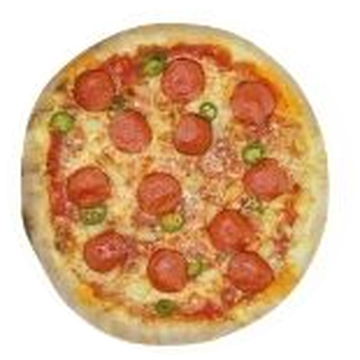
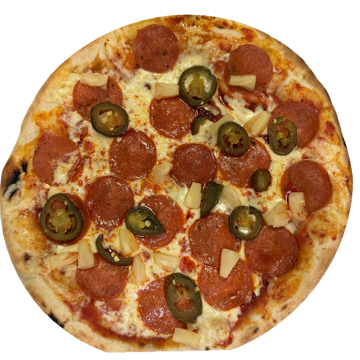
Uusi Mexicanan kuva (keskiviikon päivän pizza), tausta poistettu
Claude-Session: https://claude.ai/code/session_019QJ8uAZrjsHY5GBSvSU4sp

diff --git a/index.html b/index.html
@@ -1,9 +1,9 @@
 <!DOCTYPE html>
-<html lang="fi"><head><meta charset="utf-8"><meta name="build" content="1793696122"><meta name="viewport" content="width=device-width, initial-scale=1, viewport-fit=cover">
+<html lang="fi"><head><meta charset="utf-8"><meta name="build" content="1793781679"><meta name="viewport" content="width=device-width, initial-scale=1, viewport-fit=cover">
 <title>Malakai Ravintola Lempäälä | Pizzabuffet, kebab, burgerit ja siivet</title><meta name="description" content="Malakai Ravintola, Tampereentie 414 Lempäälä. Pizzabuffet 13,70 € / 14,90 €, päivän pizza 9,90 €, kebabit, burgerit, Sticky Fingers ja Hot Wings. Varaa pöytä: 045 353 7000.">
 <meta property="og:title" content="Malakai Ravintola Lempäälä | Pizzabuffet, kebab, burgerit ja siivet"><meta property="og:description" content="Malakai Ravintola, Tampereentie 414 Lempäälä. Pizzabuffet 13,70 € / 14,90 €, päivän pizza 9,90 €, kebabit, burgerit, Sticky Fingers ja Hot Wings. Varaa pöytä: 045 353 7000."><meta property="og:image" content="media/kuvat/hero-levea.jpg"><meta property="og:locale" content="fi_FI">
 <link href="https://fonts.googleapis.com/css2?family=Anton&family=Inter:wght@400;500;700&family=Playfair+Display:wght@500;600&display=swap" rel="stylesheet">
-<link rel="stylesheet" href="styles.css?v=1793696122"><link rel="stylesheet" href="home.css?v=1793696122">
+<link rel="stylesheet" href="styles.css?v=1793781679"><link rel="stylesheet" href="home.css?v=1793781679">
 <script type="application/ld+json">{"@context":"https://schema.org","@type":"Restaurant","name":"Malakai Ravintola","address":{"@type":"PostalAddress","streetAddress":"Tampereentie 414","postalCode":"33880","addressLocality":"Lempäälä","addressCountry":"FI"},"telephone":"+358453537000","email":"malakairavintola@gmail.com","url":"https://malakairavintola.fi","servesCuisine":["Pizza","Kebab","Burgerit"],"openingHours":["Mo-Th 10:30-20:00","Fr 10:30-21:00","Sa 11:00-21:00","Su 12:00-20:00"]}</script>
 </head>
 <body class="home">
@@ -219,5 +219,5 @@
 <div class="fcopy">© 2025 Malakai Ravintola · <a href="https://www.oivahymy.fi/api/raportti/227129" target="_blank" rel="noopener">Oiva-raportti (Oivallinen)</a> · <a href="tietosuoja.html">Tietosuojaseloste</a> · <a href="kayttoehdot.html">Käyttö- ja varausehdot</a></div>
 </div></footer>
 <div class="bar"><a class="btn" href="tel:+358453537000">Soita</a><a class="btn r" href="https://order.site/malakai-ravintola" target="_blank" rel="noopener">Tilaa</a><a class="btn y" href="#varaa">Varaa pöytä</a></div>
-<script src="data.js?v=1793696122"></script><script src="config.js?v=1793696122"></script><script src="site.js?v=1793696122"></script>
+<script src="data.js?v=1793781679"></script><script src="config.js?v=1793781679"></script><script src="site.js?v=1793781679"></script>
 </body></html>

diff --git a/lounas.html b/lounas.html
@@ -1,9 +1,9 @@
 <!DOCTYPE html>
-<html lang="fi"><head><meta charset="utf-8"><meta name="build" content="1793696122"><meta name="viewport" content="width=device-width, initial-scale=1, viewport-fit=cover">
+<html lang="fi"><head><meta charset="utf-8"><meta name="build" content="1793781679"><meta name="viewport" content="width=device-width, initial-scale=1, viewport-fit=cover">
 <title>Lounas Sääksjärvi | Malakai Ravintola Lempäälä</title><meta name="description" content="Pizzabuffet Lempäälässä: arkisin klo 10.30–15 13,70 €, viikonloppuisin klo 13–18 14,90 €. Salaattibuffet 9,90 € / 10,90 €. Lapsille omat hinnat.">
 <meta property="og:title" content="Pizzabuffet Lempäälä | Malakai Ravintola"><meta property="og:description" content="Pizzabuffet Lempäälässä: arkisin klo 10.30–15 13,70 €, viikonloppuisin klo 13–18 14,90 €. Salaattibuffet 9,90 € / 10,90 €. Lapsille omat hinnat."><meta property="og:image" content="media/hero.jpg"><meta property="og:locale" content="fi_FI">
 <link href="https://fonts.googleapis.com/css2?family=Anton&family=Inter:wght@400;500;700&family=Playfair+Display:wght@500;600&display=swap" rel="stylesheet">
-<link rel="stylesheet" href="styles.css?v=1793696122"><link rel="stylesheet" href="home.css?v=1793696122">
+<link rel="stylesheet" href="styles.css?v=1793781679"><link rel="stylesheet" href="home.css?v=1793781679">
 <script type="application/ld+json">{"@context":"https://schema.org","@type":"Restaurant","name":"Malakai Ravintola","address":{"@type":"PostalAddress","streetAddress":"Tampereentie 414","postalCode":"33880","addressLocality":"Lempäälä","addressCountry":"FI"},"telephone":"+358453537000","email":"malakairavintola@gmail.com","url":"https://malakairavintola.fi","servesCuisine":["Pizza","Kebab","Burgerit"],"openingHours":["Mo-Th 10:30-20:00","Fr 10:30-21:00","Sa 11:00-21:00","Su 12:00-20:00"]}</script>
 </head><body class="home">
 <header class="top" id="topbar">
@@ -73,5 +73,5 @@
 <div class="fcopy">© 2025 Malakai Ravintola · <a href="https://www.oivahymy.fi/api/raportti/227129" target="_blank" rel="noopener">Oiva-raportti (Oivallinen)</a> · <a href="tietosuoja.html">Tietosuojaseloste</a> · <a href="kayttoehdot.html">Käyttö- ja varausehdot</a></div>
 </div></footer>
 <div class="bar"><a class="btn" href="tel:+358453537000">Soita</a><a class="btn r" href="https://order.site/malakai-ravintola" target="_blank" rel="noopener">Tilaa</a><a class="btn y" href="index.html#varaa">Varaa pöytä</a></div>
-<script src="data.js?v=1793696122"></script><script src="config.js?v=1793696122"></script><script src="site.js?v=1793696122"></script>
+<script src="data.js?v=1793781679"></script><script src="config.js?v=1793781679"></script><script src="site.js?v=1793781679"></script>
 </body></html>

diff --git a/pikkujoulut.html b/pikkujoulut.html
@@ -1,9 +1,9 @@
 <!DOCTYPE html>
-<html lang="fi"><head><meta charset="utf-8"><meta name="build" content="1793696122"><meta name="viewport" content="width=device-width, initial-scale=1, viewport-fit=cover">
+<html lang="fi"><head><meta charset="utf-8"><meta name="build" content="1793781679"><meta name="viewport" content="width=device-width, initial-scale=1, viewport-fit=cover">
 <title>Pikkujoulut 2026 Lempäälä | Malakai Ravintola</title><meta name="description" content="Pikkujoulut 2026 Malakai Ravintolassa Sääksjärvellä: runsas buffet työporukalle, kavereille ja suvulle. Pyydä tarjous: 045 353 7000.">
 <meta property="og:title" content="Pikkujoulut 2026 | Malakai Ravintola"><meta property="og:description" content="Pikkujoulut 2026 Malakai Ravintolassa Sääksjärvellä: runsas buffet työporukalle, kavereille ja suvulle. Pyydä tarjous: 045 353 7000."><meta property="og:image" content="media/kuvat/buffet-lautanen.jpg"><meta property="og:locale" content="fi_FI">
 <link href="https://fonts.googleapis.com/css2?family=Anton&family=Inter:wght@400;500;700&family=Playfair+Display:wght@500;600&display=swap" rel="stylesheet">
-<link rel="stylesheet" href="styles.css?v=1793696122"><link rel="stylesheet" href="home.css?v=1793696122">
+<link rel="stylesheet" href="styles.css?v=1793781679"><link rel="stylesheet" href="home.css?v=1793781679">
 <script type="application/ld+json">{"@context":"https://schema.org","@type":"Restaurant","name":"Malakai Ravintola","address":{"@type":"PostalAddress","streetAddress":"Tampereentie 414","postalCode":"33880","addressLocality":"Lempäälä","addressCountry":"FI"},"telephone":"+358453537000","email":"malakairavintola@gmail.com","url":"https://malakairavintola.fi","servesCuisine":["Pizza","Kebab","Burgerit"],"openingHours":["Mo-Th 10:30-20:00","Fr 10:30-21:00","Sa 11:00-21:00","Su 12:00-20:00"]}</script>
 </head><body class="home">
 <header class="top" id="topbar">
@@ -66,5 +66,5 @@
 <div class="fcopy">© 2025 Malakai Ravintola · <a href="https://www.oivahymy.fi/api/raportti/227129" target="_blank" rel="noopener">Oiva-raportti (Oivallinen)</a> · <a href="tietosuoja.html">Tietosuojaseloste</a> · <a href="kayttoehdot.html">Käyttö- ja varausehdot</a></div>
 </div></footer>
 <div class="bar"><a class="btn" href="tel:+358453537000">Soita</a><a class="btn r" href="https://order.site/malakai-ravintola" target="_blank" rel="noopener">Tilaa</a><a class="btn y" href="index.html#varaa">Varaa pöytä</a></div>
-<script src="data.js?v=1793696122"></script><script src="config.js?v=1793696122"></script><script src="site.js?v=1793696122"></script>
+<script src="data.js?v=1793781679"></script><script src="config.js?v=1793781679"></script><script src="site.js?v=1793781679"></script>
 </body></html>

diff --git a/ruokalista.html b/ruokalista.html
@@ -1,9 +1,9 @@
 <!DOCTYPE html>
-<html lang="fi"><head><meta charset="utf-8"><meta name="build" content="1793696122"><meta name="viewport" content="width=device-width, initial-scale=1, viewport-fit=cover">
+<html lang="fi"><head><meta charset="utf-8"><meta name="build" content="1793781679"><meta name="viewport" content="width=device-width, initial-scale=1, viewport-fit=cover">
 <title>Ruokalista | Malakai Ravintola Lempäälä</title><meta name="description" content="Malakai Ravintolan ruokalista: pizzat, kebabit, kana, Sticky Fingers, Hot Wings, burgerit, lisukkeet, dipit ja juomat hintoineen.">
 <meta property="og:title" content="Ruokalista | Malakai Ravintola Lempäälä"><meta property="og:description" content="Malakai Ravintolan ruokalista: pizzat, kebabit, kana, Sticky Fingers, Hot Wings, burgerit, lisukkeet, dipit ja juomat hintoineen."><meta property="og:image" content="media/hero.jpg"><meta property="og:locale" content="fi_FI">
 <link href="https://fonts.googleapis.com/css2?family=Anton&family=Inter:wght@400;500;700&family=Playfair+Display:wght@500;600&display=swap" rel="stylesheet">
-<link rel="stylesheet" href="styles.css?v=1793696122"><link rel="stylesheet" href="home.css?v=1793696122">
+<link rel="stylesheet" href="styles.css?v=1793781679"><link rel="stylesheet" href="home.css?v=1793781679">
 <script type="application/ld+json">{"@context":"https://schema.org","@type":"Restaurant","name":"Malakai Ravintola","address":{"@type":"PostalAddress","streetAddress":"Tampereentie 414","postalCode":"33880","addressLocality":"Lempäälä","addressCountry":"FI"},"telephone":"+358453537000","email":"malakairavintola@gmail.com","url":"https://malakairavintola.fi","servesCuisine":["Pizza","Kebab","Burgerit"],"openingHours":["Mo-Th 10:30-20:00","Fr 10:30-21:00","Sa 11:00-21:00","Su 12:00-20:00"]}</script>
 </head><body class="home menu-page">
 <header class="top" id="topbar">
@@ -23,5 +23,5 @@
 <div class="fcopy">© 2025 Malakai Ravintola · <a href="https://www.oivahymy.fi/api/raportti/227129" target="_blank" rel="noopener">Oiva-raportti (Oivallinen)</a> · <a href="tietosuoja.html">Tietosuojaseloste</a> · <a href="kayttoehdot.html">Käyttö- ja varausehdot</a></div>
 </div></footer>
 <div class="bar"><a class="btn" href="tel:+358453537000">Soita</a><a class="btn r" href="https://order.site/malakai-ravintola" target="_blank" rel="noopener">Tilaa</a><a class="btn y" href="index.html#varaa">Varaa pöytä</a></div>
-<script src="data.js?v=1793696122"></script><script src="config.js?v=1793696122"></script><script src="site.js?v=1793696122"></script>
+<script src="data.js?v=1793781679"></script><script src="config.js?v=1793781679"></script><script src="site.js?v=1793781679"></script>
 </body></html>

diff --git a/pizza-lempaala.html b/pizza-lempaala.html
@@ -1,9 +1,9 @@
 <!DOCTYPE html>
-<html lang="fi"><head><meta charset="utf-8"><meta name="build" content="1793696122"><meta name="viewport" content="width=device-width, initial-scale=1, viewport-fit=cover">
+<html lang="fi"><head><meta charset="utf-8"><meta name="build" content="1793781679"><meta name="viewport" content="width=device-width, initial-scale=1, viewport-fit=cover">
 <title>Pizza Lempäälä | Malakai Ravintola</title><meta name="description" content="Pizza Lempäälässä: Malakai Ravintolan 22 pizzaa, oma valinta ja päivän pizza 9,90 €. Pizzabuffet joka päivä.">
 <meta property="og:title" content="Pizza Lempäälä | Malakai Ravintola"><meta property="og:description" content="Pizza Lempäälässä: Malakai Ravintolan 22 pizzaa, oma valinta ja päivän pizza 9,90 €. Pizzabuffet joka päivä."><meta property="og:image" content="media/hero.jpg"><meta property="og:locale" content="fi_FI">
 <link href="https://fonts.googleapis.com/css2?family=Anton&family=Inter:wght@400;500;700&family=Playfair+Display:wght@500;600&display=swap" rel="stylesheet">
-<link rel="stylesheet" href="styles.css?v=1793696122"><link rel="stylesheet" href="home.css?v=1793696122">
+<link rel="stylesheet" href="styles.css?v=1793781679"><link rel="stylesheet" href="home.css?v=1793781679">
 <script type="application/ld+json">{"@context":"https://schema.org","@type":"Restaurant","name":"Malakai Ravintola","address":{"@type":"PostalAddress","streetAddress":"Tampereentie 414","postalCode":"33880","addressLocality":"Lempäälä","addressCountry":"FI"},"telephone":"+358453537000","email":"malakairavintola@gmail.com","url":"https://malakairavintola.fi","servesCuisine":["Pizza","Kebab","Burgerit"],"openingHours":["Mo-Th 10:30-20:00","Fr 10:30-21:00","Sa 11:00-21:00","Su 12:00-20:00"]}</script>
 </head><body class="home menu-page">
 <header class="top" id="topbar">
@@ -23,5 +23,5 @@
 <div class="fcopy">© 2025 Malakai Ravintola · <a href="https://www.oivahymy.fi/api/raportti/227129" target="_blank" rel="noopener">Oiva-raportti (Oivallinen)</a> · <a href="tietosuoja.html">Tietosuojaseloste</a> · <a href="kayttoehdot.html">Käyttö- ja varausehdot</a></div>
 </div></footer>
 <div class="bar"><a class="btn" href="tel:+358453537000">Soita</a><a class="btn r" href="https://order.site/malakai-ravintola" target="_blank" rel="noopener">Tilaa</a><a class="btn y" href="index.html#varaa">Varaa pöytä</a></div>
-<script src="data.js?v=1793696122"></script><script src="config.js?v=1793696122"></script><script src="site.js?v=1793696122"></script>
+<script src="data.js?v=1793781679"></script><script src="config.js?v=1793781679"></script><script src="site.js?v=1793781679"></script>
 </body></html>

diff --git a/kebab-lempaala.html b/kebab-lempaala.html
@@ -1,9 +1,9 @@
 <!DOCTYPE html>
-<html lang="fi"><head><meta charset="utf-8"><meta name="build" content="1793696122"><meta name="viewport" content="width=device-width, initial-scale=1, viewport-fit=cover">
+<html lang="fi"><head><meta charset="utf-8"><meta name="build" content="1793781679"><meta name="viewport" content="width=device-width, initial-scale=1, viewport-fit=cover">
 <title>Kebab Lempäälä | Malakai Ravintola</title><meta name="description" content="Kebab Lempäälässä: Malakai Ravintolan kebab- ja kanaannokset ranskalaisilla, riisillä, rullana ja pitassa.">
 <meta property="og:title" content="Kebab Lempäälä | Malakai Ravintola"><meta property="og:description" content="Kebab Lempäälässä: Malakai Ravintolan kebab- ja kanaannokset ranskalaisilla, riisillä, rullana ja pitassa."><meta property="og:image" content="media/hero.jpg"><meta property="og:locale" content="fi_FI">
 <link href="https://fonts.googleapis.com/css2?family=Anton&family=Inter:wght@400;500;700&family=Playfair+Display:wght@500;600&display=swap" rel="stylesheet">
-<link rel="stylesheet" href="styles.css?v=1793696122"><link rel="stylesheet" href="home.css?v=1793696122">
+<link rel="stylesheet" href="styles.css?v=1793781679"><link rel="stylesheet" href="home.css?v=1793781679">
 <script type="application/ld+json">{"@context":"https://schema.org","@type":"Restaurant","name":"Malakai Ravintola","address":{"@type":"PostalAddress","streetAddress":"Tampereentie 414","postalCode":"33880","addressLocality":"Lempäälä","addressCountry":"FI"},"telephone":"+358453537000","email":"malakairavintola@gmail.com","url":"https://malakairavintola.fi","servesCuisine":["Pizza","Kebab","Burgerit"],"openingHours":["Mo-Th 10:30-20:00","Fr 10:30-21:00","Sa 11:00-21:00","Su 12:00-20:00"]}</script>
 </head><body class="home menu-page">
 <header class="top" id="topbar">
@@ -23,5 +23,5 @@
 <div class="fcopy">© 2025 Malakai Ravintola · <a href="https://www.oivahymy.fi/api/raportti/227129" target="_blank" rel="noopener">Oiva-raportti (Oivallinen)</a> · <a href="tietosuoja.html">Tietosuojaseloste</a> · <a href="kayttoehdot.html">Käyttö- ja varausehdot</a></div>
 </div></footer>
 <div class="bar"><a class="btn" href="tel:+358453537000">Soita</a><a class="btn r" href="https://order.site/malakai-ravintola" target="_blank" rel="noopener">Tilaa</a><a class="btn y" href="index.html#varaa">Varaa pöytä</a></div>
-<script src="data.js?v=1793696122"></script><script src="config.js?v=1793696122"></script><script src="site.js?v=1793696122"></script>
+<script src="data.js?v=1793781679"></script><script src="config.js?v=1793781679"></script><script src="site.js?v=1793781679"></script>
 </body></html>

diff --git a/kayttoehdot.html b/kayttoehdot.html
@@ -1,9 +1,9 @@
 <!DOCTYPE html>
-<html lang="fi"><head><meta charset="utf-8"><meta name="build" content="1793696122"><meta name="viewport" content="width=device-width, initial-scale=1, viewport-fit=cover">
+<html lang="fi"><head><meta charset="utf-8"><meta name="build" content="1793781679"><meta name="viewport" content="width=device-width, initial-scale=1, viewport-fit=cover">
 <title>Käyttö- ja varausehdot | Malakai Ravintola</title><meta name="description" content="Malakai Ravintolan käyttö- ja varausehdot: pöytävaraukset, lahjakortit ja sivuston käyttö."><meta name="robots" content="noindex">
 <meta property="og:title" content="Käyttö- ja varausehdot | Malakai Ravintola"><meta property="og:description" content="Pöytävaraukset ja lahjakortit: Malakai Ravintolan ehdot."><meta property="og:image" content="media/kuvat/buffet-lautanen.jpg"><meta property="og:locale" content="fi_FI">
 <link href="https://fonts.googleapis.com/css2?family=Anton&family=Inter:wght@400;500;700&family=Playfair+Display:wght@500;600&display=swap" rel="stylesheet">
-<link rel="stylesheet" href="styles.css?v=1793696122"><link rel="stylesheet" href="home.css?v=1793696122">
+<link rel="stylesheet" href="styles.css?v=1793781679"><link rel="stylesheet" href="home.css?v=1793781679">
 <script type="application/ld+json">{"@context":"https://schema.org","@type":"Restaurant","name":"Malakai Ravintola","address":{"@type":"PostalAddress","streetAddress":"Tampereentie 414","postalCode":"33880","addressLocality":"Lempäälä","addressCountry":"FI"},"telephone":"+358453537000","email":"malakairavintola@gmail.com","url":"https://malakairavintola.fi","servesCuisine":["Pizza","Kebab","Burgerit"],"openingHours":["Mo-Th 10:30-20:00","Fr 10:30-21:00","Sa 11:00-21:00","Su 12:00-20:00"]}</script>
 </head><body class="home">
 <header class="top" id="topbar">
@@ -69,5 +69,5 @@
 <div class="fcopy">© 2025 Malakai Ravintola · <a href="https://www.oivahymy.fi/api/raportti/227129" target="_blank" rel="noopener">Oiva-raportti (Oivallinen)</a> · <a href="tietosuoja.html">Tietosuojaseloste</a> · <a href="kayttoehdot.html">Käyttö- ja varausehdot</a></div>
 </div></footer>
 <div class="bar"><a class="btn" href="tel:+358453537000">Soita</a><a class="btn r" href="https://order.site/malakai-ravintola" target="_blank" rel="noopener">Tilaa</a><a class="btn y" href="index.html#varaa">Varaa pöytä</a></div>
-<script src="data.js?v=1793696122"></script><script src="config.js?v=1793696122"></script><script src="site.js?v=1793696122"></script>
+<script src="data.js?v=1793781679"></script><script src="config.js?v=1793781679"></script><script src="site.js?v=1793781679"></script>
 </body></html>

diff --git a/tietosuoja.html b/tietosuoja.html
@@ -1,9 +1,9 @@
 <!DOCTYPE html>
-<html lang="fi"><head><meta charset="utf-8"><meta name="build" content="1793696122"><meta name="viewport" content="width=device-width, initial-scale=1, viewport-fit=cover">
+<html lang="fi"><head><meta charset="utf-8"><meta name="build" content="1793781679"><meta name="viewport" content="width=device-width, initial-scale=1, viewport-fit=cover">
 <title>Tietosuojaseloste | Malakai Ravintola</title><meta name="description" content="Malakai Ravintolan tietosuojaseloste: pöytävarausten ja uutiskirjeen henkilötietojen käsittely."><meta name="robots" content="noindex">
 <meta property="og:title" content="Tietosuojaseloste | Malakai Ravintola"><meta property="og:image" content="media/kuvat/buffet-lautanen.jpg"><meta property="og:locale" content="fi_FI">
 <link href="https://fonts.googleapis.com/css2?family=Anton&family=Inter:wght@400;500;700&family=Playfair+Display:wght@500;600&display=swap" rel="stylesheet">
-<link rel="stylesheet" href="styles.css?v=1793696122"><link rel="stylesheet" href="home.css?v=1793696122">
+<link rel="stylesheet" href="styles.css?v=1793781679"><link rel="stylesheet" href="home.css?v=1793781679">
 <script type="application/ld+json">{"@context":"https://schema.org","@type":"Restaurant","name":"Malakai Ravintola","address":{"@type":"PostalAddress","streetAddress":"Tampereentie 414","postalCode":"33880","addressLocality":"Lempäälä","addressCountry":"FI"},"telephone":"+358453537000","email":"malakairavintola@gmail.com","url":"https://malakairavintola.fi","servesCuisine":["Pizza","Kebab","Burgerit"],"openingHours":["Mo-Th 10:30-20:00","Fr 10:30-21:00","Sa 11:00-21:00","Su 12:00-20:00"]}</script>
 </head><body class="home">
 <header class="top" id="topbar">
@@ -47,5 +47,5 @@
 <div class="fcopy">© 2025 Malakai Ravintola · <a href="https://www.oivahymy.fi/api/raportti/227129" target="_blank" rel="noopener">Oiva-raportti (Oivallinen)</a> · <a href="tietosuoja.html">Tietosuojaseloste</a> · <a href="kayttoehdot.html">Käyttö- ja varausehdot</a></div>
 </div></footer>
 <div class="bar"><a class="btn" href="tel:+358453537000">Soita</a><a class="btn r" href="https://order.site/malakai-ravintola" target="_blank" rel="noopener">Tilaa</a><a class="btn y" href="index.html#varaa">Varaa pöytä</a></div>
-<script src="data.js?v=1793696122"></script><script src="config.js?v=1793696122"></script><script src="site.js?v=1793696122"></script>
+<script src="data.js?v=1793781679"></script><script src="config.js?v=1793781679"></script><script src="site.js?v=1793781679"></script>
 </body></html>

diff --git a/lahjakortit.html b/lahjakortit.html
@@ -1,9 +1,9 @@
 <!DOCTYPE html>
-<html lang="fi"><head><meta charset="utf-8"><meta name="build" content="1793696122"><meta name="viewport" content="width=device-width, initial-scale=1, viewport-fit=cover">
+<html lang="fi"><head><meta charset="utf-8"><meta name="build" content="1793781679"><meta name="viewport" content="width=device-width, initial-scale=1, viewport-fit=cover">
 <title>Lahjakortit | Malakai Ravintola</title><meta name="description" content="Malakai Ravintolan lahjakortti: valitse summa itse (alk. 20 €), voimassa 6 kk. Osta ravintolan kassalta, Tampereentie 414, Lempäälä.">
 <meta property="og:title" content="Lahjakortit | Malakai Ravintola"><meta property="og:image" content="media/kuvat/buffet-lautanen.jpg"><meta property="og:locale" content="fi_FI">
 <link href="https://fonts.googleapis.com/css2?family=Anton&family=Inter:wght@400;500;700&family=Playfair+Display:wght@500;600&display=swap" rel="stylesheet">
-<link rel="stylesheet" href="styles.css?v=1793696122"><link rel="stylesheet" href="home.css?v=1793696122">
+<link rel="stylesheet" href="styles.css?v=1793781679"><link rel="stylesheet" href="home.css?v=1793781679">
 <script type="application/ld+json">{"@context":"https://schema.org","@type":"Restaurant","name":"Malakai Ravintola","address":{"@type":"PostalAddress","streetAddress":"Tampereentie 414","postalCode":"33880","addressLocality":"Lempäälä","addressCountry":"FI"},"telephone":"+358453537000","email":"malakairavintola@gmail.com","url":"https://malakairavintola.fi","servesCuisine":["Pizza","Kebab","Burgerit"],"openingHours":["Mo-Th 10:30-20:00","Fr 10:30-21:00","Sa 11:00-21:00","Su 12:00-20:00"]}</script>
 </head><body class="home">
 <header class="top" id="topbar">
@@ -44,5 +44,5 @@
 <div class="fcopy">© 2025 Malakai Ravintola · <a href="https://www.oivahymy.fi/api/raportti/227129" target="_blank" rel="noopener">Oiva-raportti (Oivallinen)</a> · <a href="tietosuoja.html">Tietosuojaseloste</a> · <a href="kayttoehdot.html">Käyttö- ja varausehdot</a></div>
 </div></footer>
 <div class="bar"><a class="btn" href="tel:+358453537000">Soita</a><a class="btn r" href="https://order.site/malakai-ravintola" target="_blank" rel="noopener">Tilaa</a><a class="btn y" href="index.html#varaa">Varaa pöytä</a></div>
-<script src="data.js?v=1793696122"></script><script src="config.js?v=1793696122"></script><script src="site.js?v=1793696122"></script>
+<script src="data.js?v=1793781679"></script><script src="config.js?v=1793781679"></script><script src="site.js?v=1793781679"></script>
 </body></html>

diff --git a/admin.html b/admin.html
@@ -102,8 +102,8 @@ a{color:var(--y)}
 <main class="w" id="main"></main>
 <div class="save" id="saveBar"><div class="w"><span id="saveTxt">Ei tallentamattomia muutoksia</span><button class="o" id="undo" disabled>Peru muutokset</button><button id="saveBtn" disabled>Tallenna ja julkaise</button></div></div>
 <div id="toast" hidden></div>
-<script src="data.js?v=1793696122"></script>
-<script src="config.js?v=1793696122"></script>
+<script src="data.js?v=1793781679"></script>
+<script src="config.js?v=1793781679"></script>
 <script>
 (function(){
 const REPO="malakai-ravintola/malakai-ravintola.github.io",BR="main",FILE="data.js";

diff --git a/data.js b/data.js
@@ -12,7 +12,7 @@ window.SITE=/*BEGIN*/{
   },
   "ke": {
    "name": "Mexicana",
-   "img": "media/pizza-ke.png"
+   "img": "media/pizza-ke.webp?v=2"
   },
   "to": {
    "name": "Americano",
